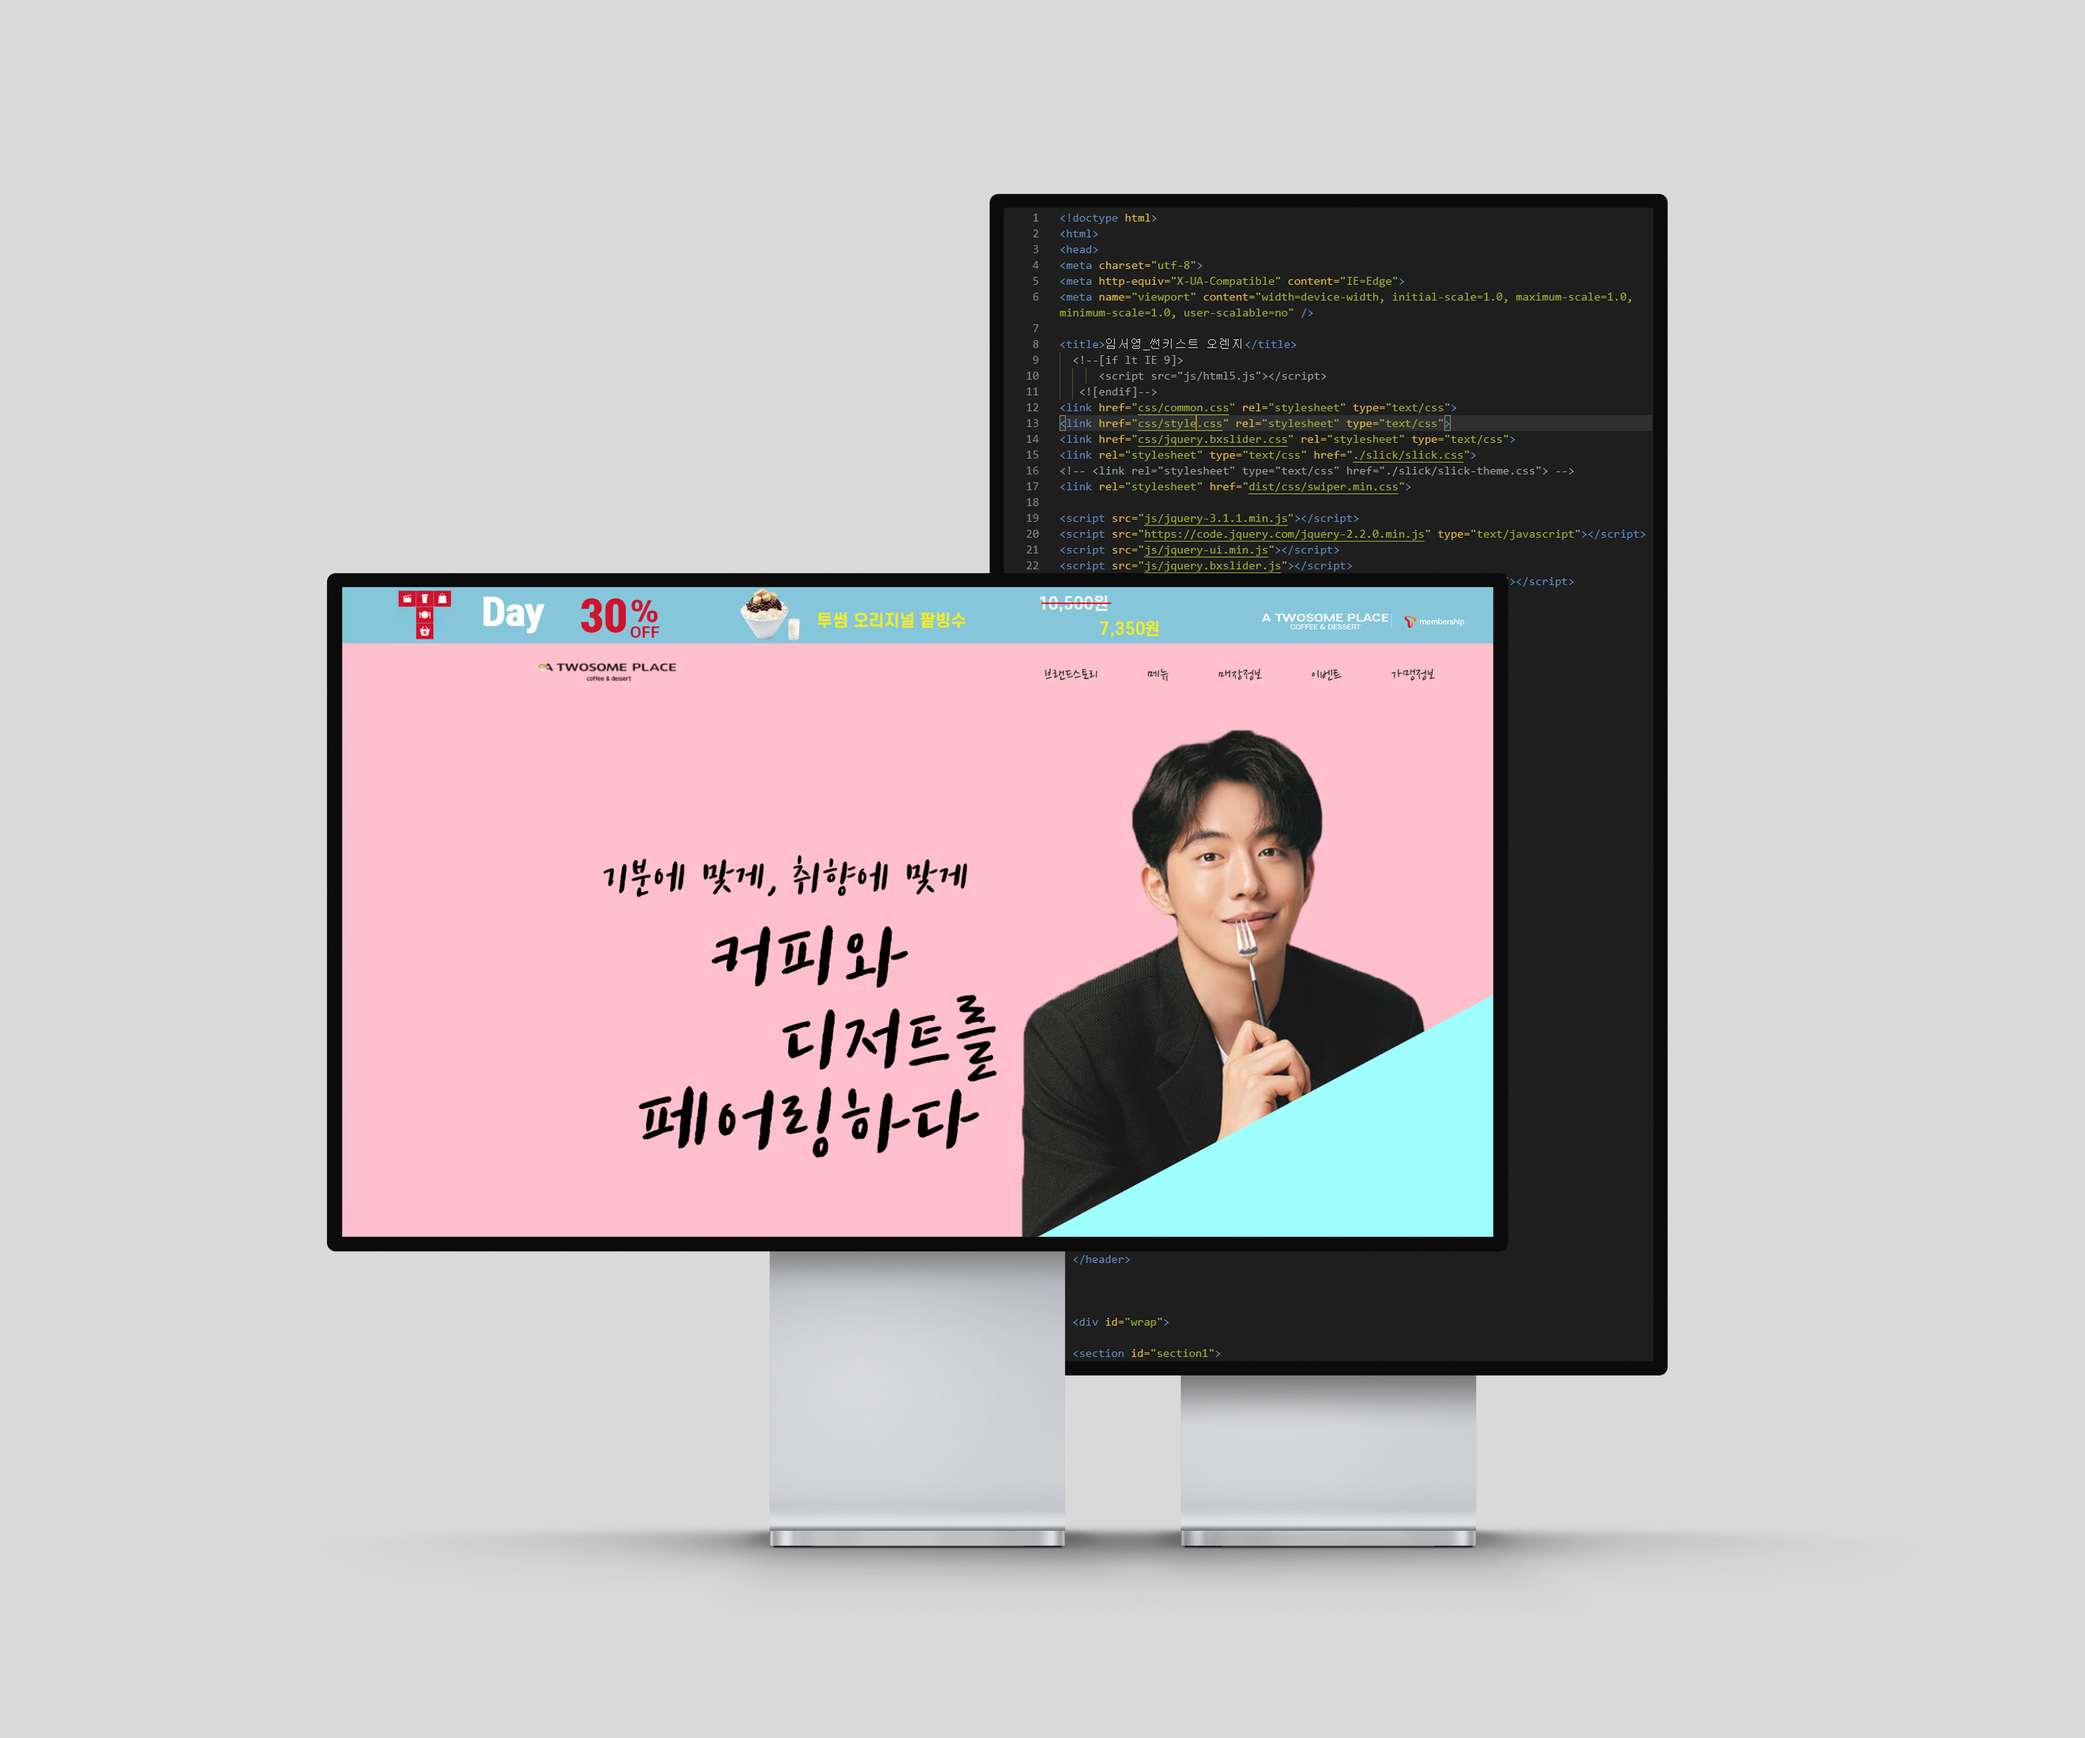
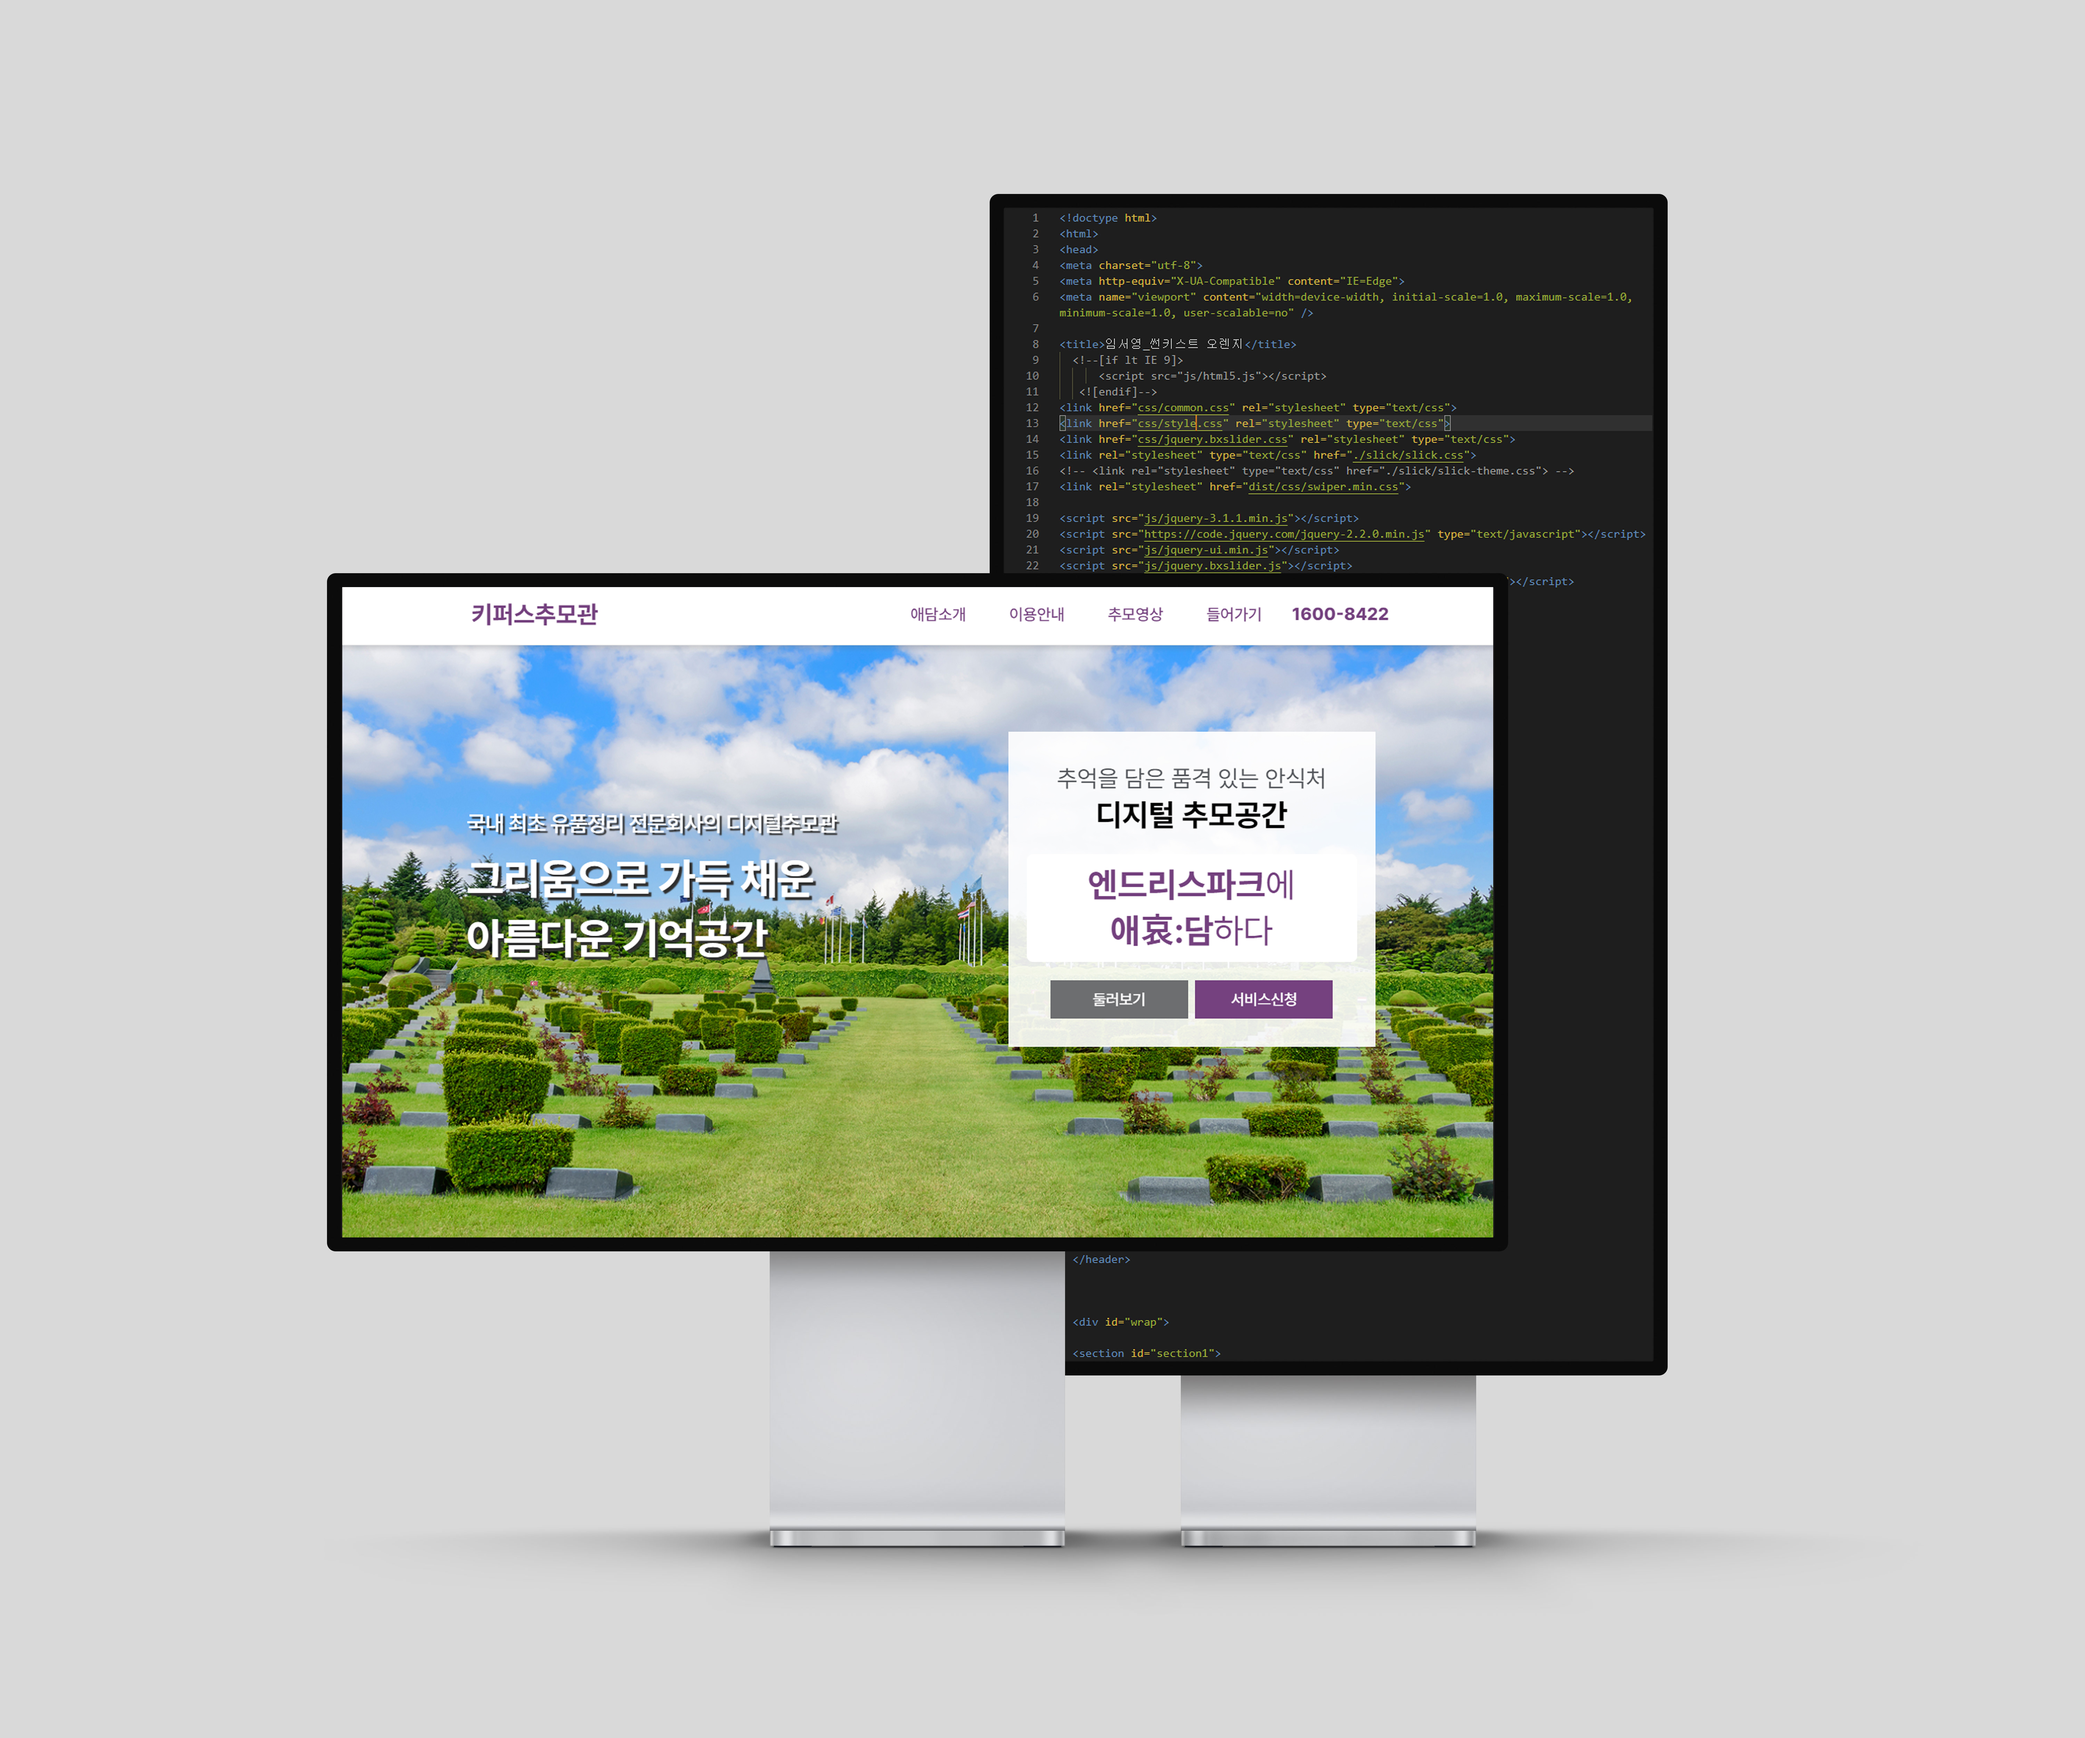
gwrgwr
gwrrgwg

Changed region(s): [[0.1558, 0.312, 0.7168, 0.7176]]

diff --git a/index.html b/index.html
@@ -51,11 +51,14 @@
 				<p>
 					 공감하는 디자이너 권동수입니다.
 				</p>
+                <p>
+                    현재 홈페이지 리뉴얼중입니다.
+               </p>
 				<p>
-					 새롭고 신선하지만 누구와도 공감할 수 있고,
+					 최대한 빠른 시일내에 완료하도록 하겠습니다!
 				</p>
 				<p>
-					 행복해 질 수 있는 디자인을 만들고자 합니다.
+					 감사합니다.
 				</p>
 			</div>
 		</div>
@@ -149,7 +152,7 @@
 	<div class="inner">
 		<h2>WEB</h2>
 		<div class="sunkist">
-			<h4>TWOSOMEPLACE</h4>
+			<h4>KEEPERSKOREA</h4>
 			<div class="finaly_sunki">
 				<div class="sunkist_left">
                     <div class="sunkic_img">
@@ -180,7 +183,7 @@
 			</div>
 		</div>
         <div class="sunkist2">
-			<h4>TWOSOMEPLACE</h4>
+			<h4>A MEMORIAL HALL</h4>
 			<div class="finaly_sunki2">
 				<div class="sunkist_left2">
                     <div class="sunkist_right2">
@@ -202,7 +205,7 @@
 						<p>
 							 &#43;&#160;&#160; ZEPLIN
 						</p>
-						<a href="#" target="_blank" class="btn">WEB</a>
+						<a href="http://officekeepers09.cafe24.com/endless_k/index.html" target="_blank" class="btn">WEB</a>
 					</div>
                     <div class="sunkic_img2">
                         <img src="images/sunkist_mok2.jpg" alt="#">
@@ -211,7 +214,7 @@
 			</div>
 		</div>
         <div class="sunkist">
-			<h4>TWOSOMEPLACE</h4>
+			<h4>CORPORATE</h4>
 			<div class="finaly_sunki">
 				<div class="sunkist_left">
                     <div class="sunkic_img">
